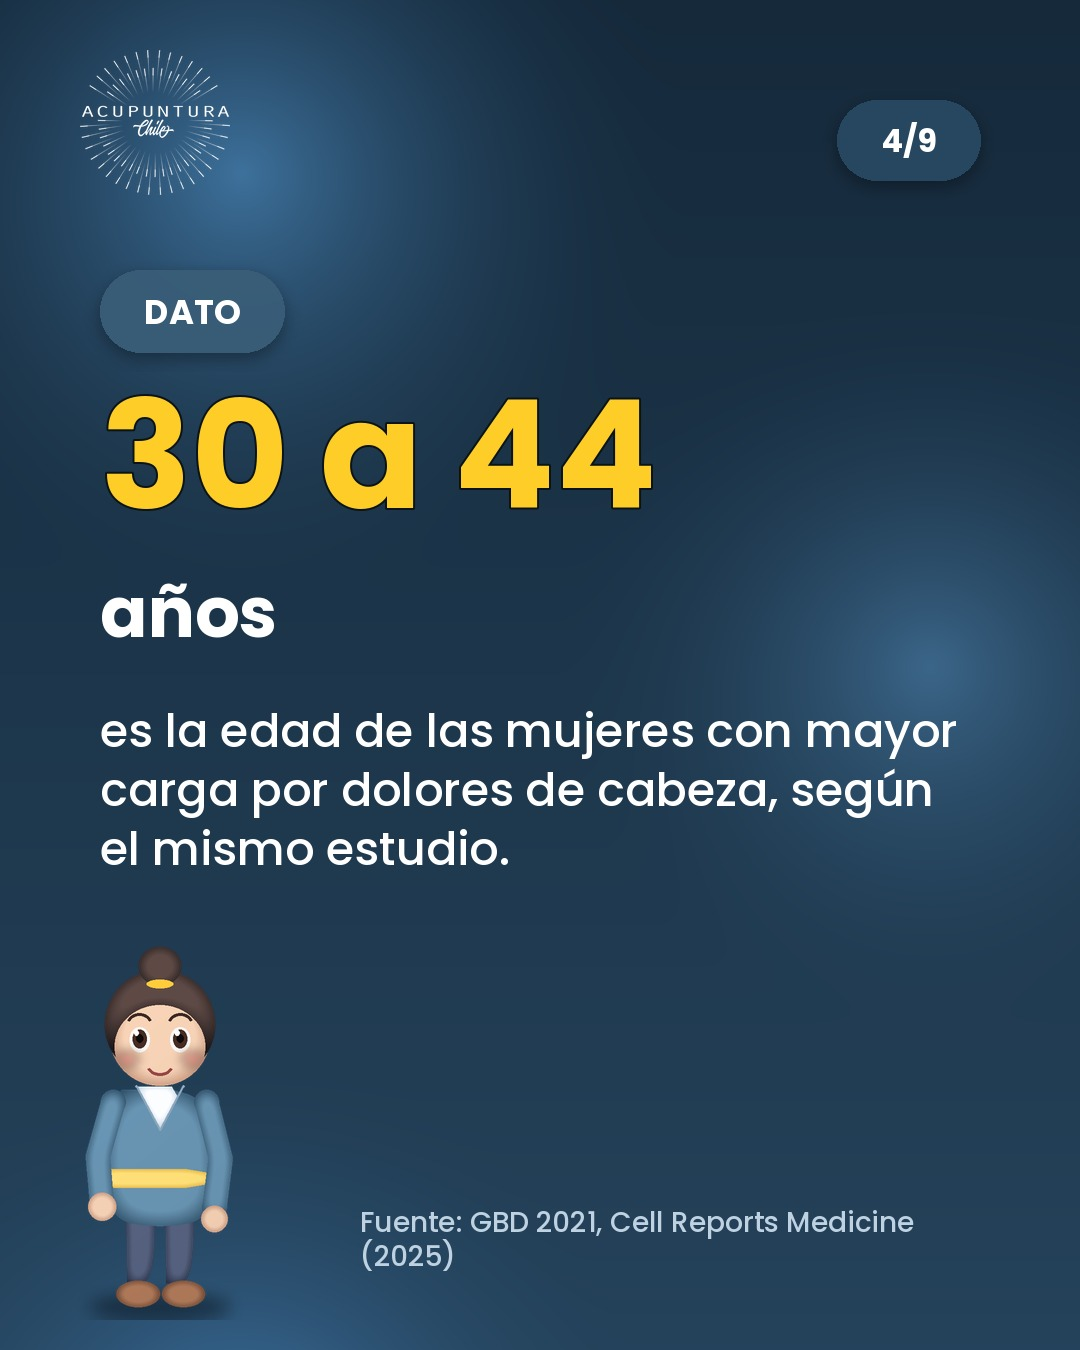
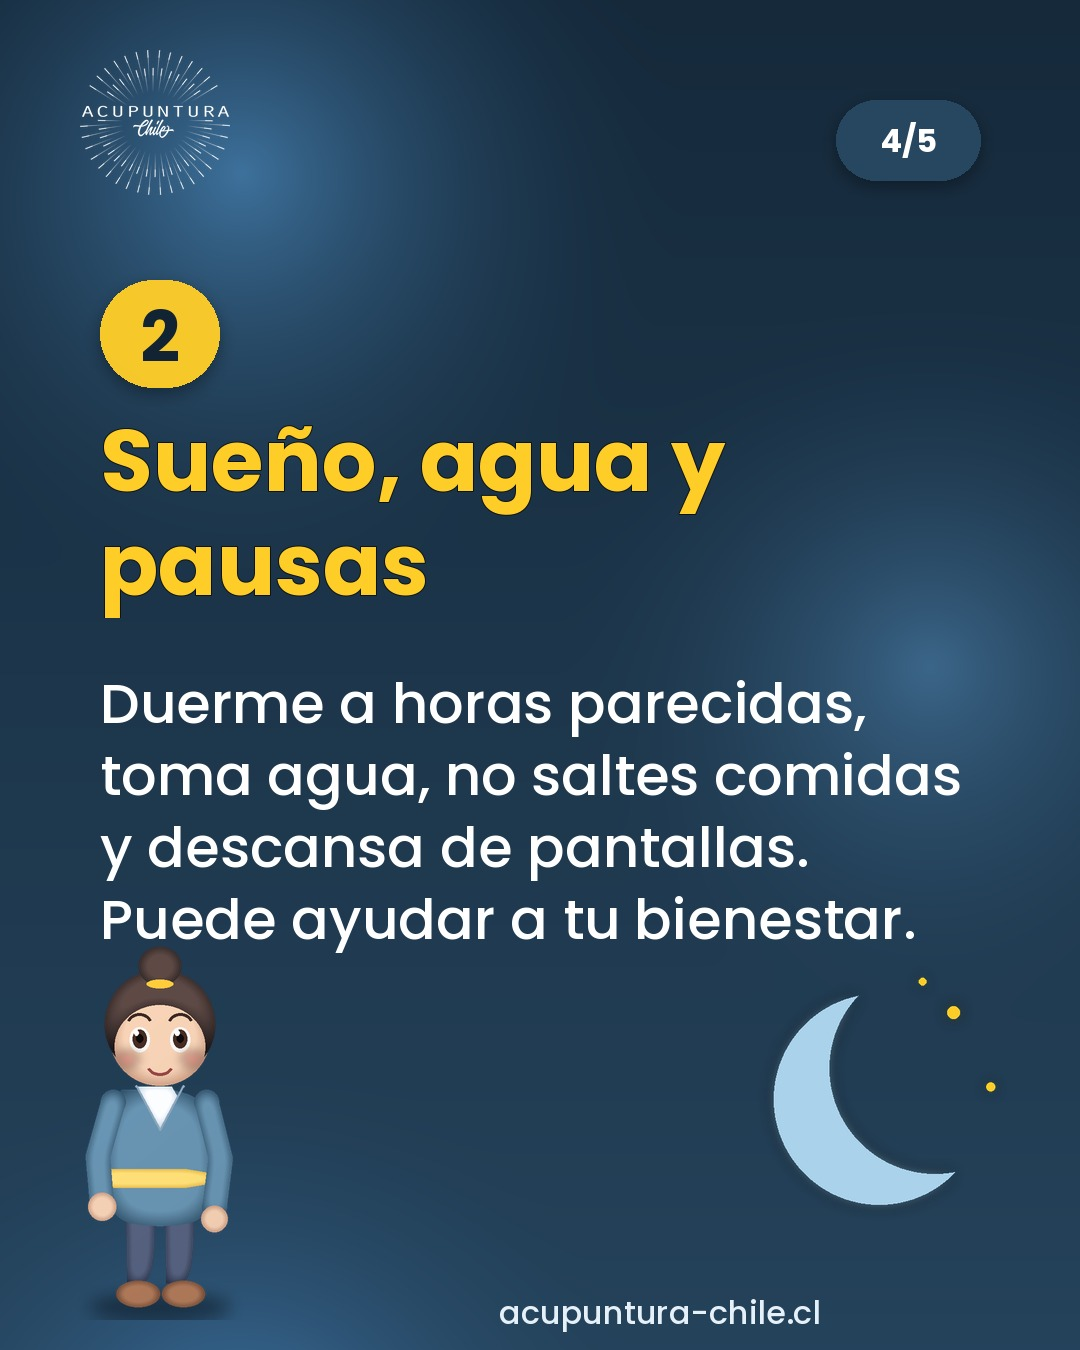
Carrusel de migraña reducido a 5 láminas
Claude-Session: https://claude.ai/code/session_018anmNcVPtF1qS3nC8GbSgT

diff --git a/CLAUDE.md b/CLAUDE.md
@@ -68,4 +68,4 @@ Cuando Julio envía un video en el chat, se edita con corte de silencios, mejora
 ## Contenido ya preparado y mostrado a Julio
 - **Reel ilustrado del miércoles 18 de noviembre de 2026:** aprobado por Julio y generado en `media/2026-11-18-columna-tres-miradas/` (`reel.mp4`, `portada.jpg`, `caption.txt`). En esa ejecución NO generar otro: publicar exactamente ese Reel (pasos 6 a 9). Desde el 25 de noviembre, alternar formato y centrar cada Reel ilustrado en una sola terapia.
 - **Reel del miércoles 11 de noviembre de 2026:** ya está generado en `media/2026-11-11-primera-sesion/` (`reel.mp4` con voz neutra ya incluida, `portada.jpg`, `caption.txt`, tema `primera-sesion`). En esa ejecución NO generar otro: comprobar la URL, publicar exactamente ese Reel con ese texto (pasos 6 a 9) y registrarlo en el historial. Si Julio pidió cambios antes, estarán reflejados en esa carpeta.
-- **Carrusel del lunes 9 de noviembre de 2026:** ya está generado en `media/2026-11-09-pausas-trabajo/` (`lamina-01.jpg` a `lamina-09.jpg`, `caption.txt`; dato sobre dolor de espalda y guía "5 pausas de 1 minuto para tu jornada"). En esa ejecución NO generar otro: comprobar las URLs raw y publicar exactamente esas 9 láminas con ese texto (`create_carousel_post`), registrar en el historial (tipo carrusel, id_tema `pausas-trabajo`). El carrusel del 16 de noviembre de 2026 ya está generado en `media/2026-11-16-migrana/` (`lamina-01.jpg` a `lamina-09.jpg`, `caption.txt`; dato sobre migraña con cifras GBD 2021 y guía de 4 hábitos, pedido por Julio el 9 nov tras el análisis de redes). En esa ejecución NO generar otro: comprobar las URLs raw y publicar exactamente esas 9 láminas con ese texto (`create_carousel_post`), registrar en el historial (tipo carrusel, id_tema `migrana-habitos`).
+- **Carrusel del lunes 9 de noviembre de 2026:** ya está generado en `media/2026-11-09-pausas-trabajo/` (`lamina-01.jpg` a `lamina-09.jpg`, `caption.txt`; dato sobre dolor de espalda y guía "5 pausas de 1 minuto para tu jornada"). En esa ejecución NO generar otro: comprobar las URLs raw y publicar exactamente esas 9 láminas con ese texto (`create_carousel_post`), registrar en el historial (tipo carrusel, id_tema `pausas-trabajo`). El carrusel del 16 de noviembre de 2026 ya está generado en `media/2026-11-16-migrana/` (`lamina-01.jpg` a `lamina-05.jpg`, `caption.txt`; dato sobre migraña con cifra GBD 2021 y guía de hábitos, máximo 5 láminas por pedido de Julio, pedido por Julio el 9 nov tras el análisis de redes). En esa ejecución NO generar otro: comprobar las URLs raw y publicar exactamente esas 5 láminas con ese texto (`create_carousel_post`), registrar en el historial (tipo carrusel, id_tema `migrana-habitos`).
